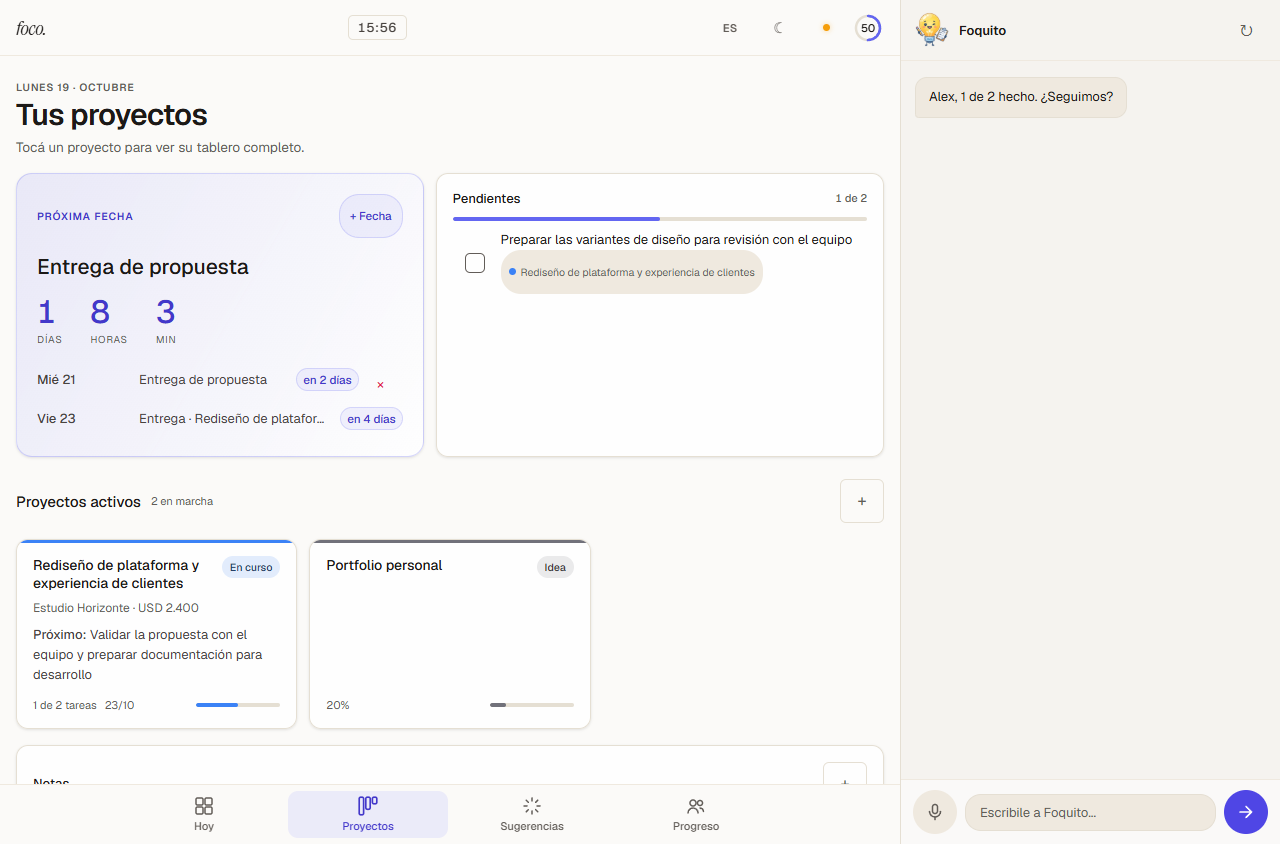
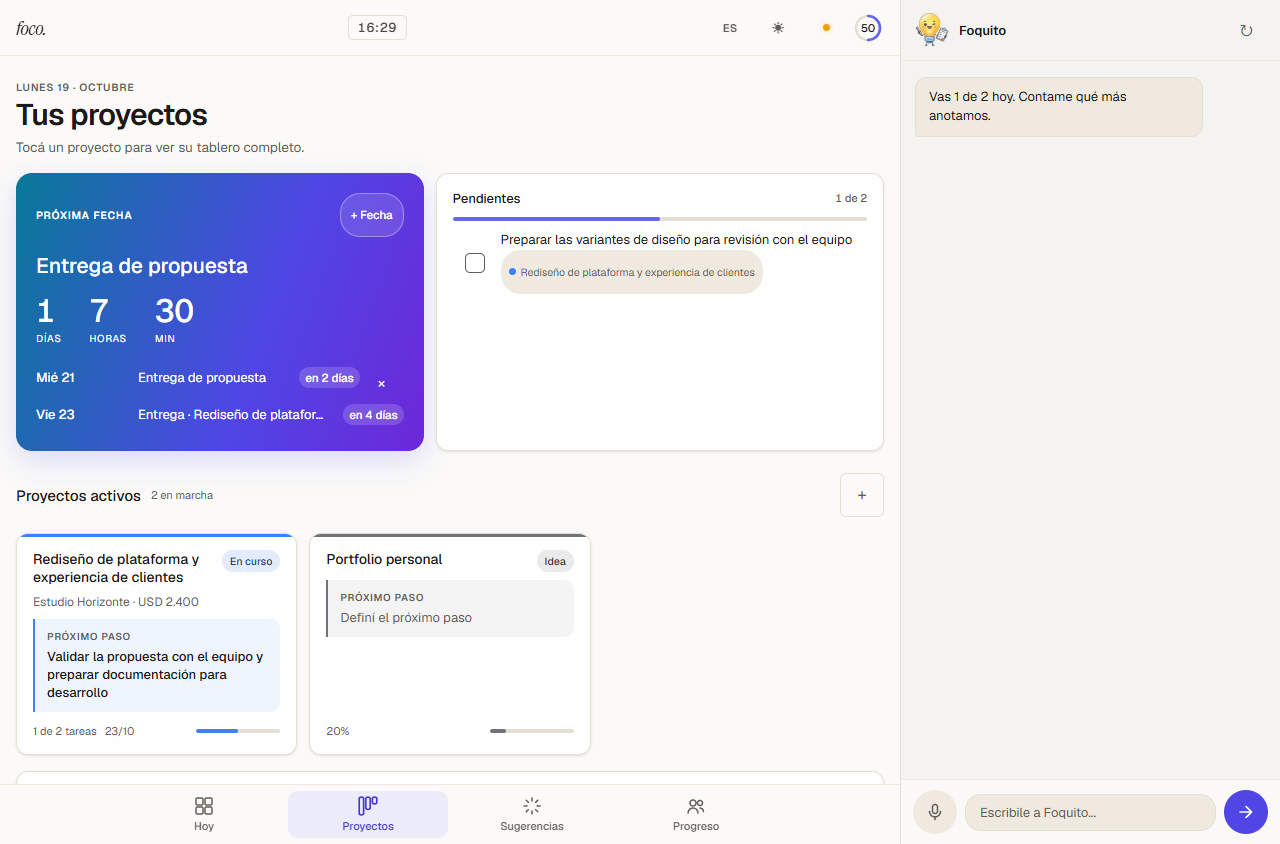
Destacar el próximo paso de cada proyecto en móvil

diff --git a/public/app.js b/public/app.js
@@ -151,7 +151,7 @@ const I18N_UI = {
     projColor: 'Color', projUnoPorLinea: 'uno por línea', projCronoAyuda: 'cuándo | qué | estado (pendiente, ahora, listo)',
     projClientePh: 'Para quién es', projViaPh: 'Directo, Qenti, Antic...', projMontoPh: 'USD 1.000 · 50/50', projPlazoPh: '6 semanas',
     projProximoPh: 'Lo siguiente que tiene que pasar',
-    phubTitle: 'Tus proyectos', phubLead: 'Tocá un proyecto para ver su tablero completo.',
+    phubTitle: 'Tus proyectos', phubLead: 'Tocá un proyecto para ver su tablero completo.', projDefineNext: 'Definí el próximo paso',
     phubProxima: 'Próxima fecha', phubFecha: 'Fecha', phubSinFechas: 'Sin fechas próximas', phubPendientes: 'Pendientes',
     phubSinPendientes: 'Nada pendiente', phubActivos: 'Proyectos activos', phubEnMarcha: 'en marcha', phubEntregados: 'Entregados',
     phubEntrega: 'Entrega', phubPaso: 'pasó', phubEn: 'en', phubManana: 'mañana', phubDias: 'días',
@@ -242,7 +242,7 @@ const I18N_UI = {
     projColor: 'Color', projUnoPorLinea: 'one per line', projCronoAyuda: 'when | what | status (pendiente, ahora, listo)',
     projClientePh: 'Who it is for', projViaPh: 'Direct, agency...', projMontoPh: 'USD 1,000 · 50/50', projPlazoPh: '6 weeks',
     projProximoPh: 'The next thing that has to happen',
-    phubTitle: 'Your projects', phubLead: 'Tap a project to see its full board.',
+    phubTitle: 'Your projects', phubLead: 'Tap a project to see its full board.', projDefineNext: 'Define the next step',
     phubProxima: 'Next date', phubFecha: 'Date', phubSinFechas: 'No upcoming dates', phubPendientes: 'To do',
     phubSinPendientes: 'Nothing pending', phubActivos: 'Active projects', phubEnMarcha: 'active', phubEntregados: 'Delivered',
     phubEntrega: 'Due', phubPaso: 'past', phubEn: 'in', phubManana: 'tomorrow', phubDias: 'days',
@@ -2006,6 +2006,8 @@ function renderProjAgenda() {
 function proyectoCardHTML(p) {
   const color = projColor(p);
   const av = projAvance(p);
+  const nextTask = projTareasAll.find(it => it.proyecto_id === p.id && !it.done);
+  const nextAction = p.proximo_paso || nextTask?.texto || '';
   const sub = [p.cliente, p.monto].filter(Boolean).map(escH).join(' · ') || (p.descripcion ? escH(p.descripcion) : '');
   let fechaStr = '';
   if (p.fecha_limite) {
@@ -2024,7 +2026,10 @@ function proyectoCardHTML(p) {
         ${projEstadoChip(p)}
       </div>
       ${sub ? `<div class="ptab-card-sub">${sub}</div>` : ''}
-      ${p.proximo_paso ? `<div class="ptab-card-next"><b>${t('projProximo')}:</b> ${escH(p.proximo_paso)}</div>` : ''}
+      <div class="ptab-card-next${nextAction ? '' : ' is-empty'}">
+        <span class="ptab-card-next-label">${t('projProximoPaso')}</span>
+        <span class="ptab-card-next-text">${escH(nextAction || t('projDefineNext'))}</span>
+      </div>
       <div class="ptab-card-foot">
         <span>${av.total ? `${av.hechas} ${t('projDe')} ${av.total} ${t('projTareasMin')}` : (av.pct ? av.pct + '%' : '')}</span>
         ${fechaStr}

diff --git a/public/style.css b/public/style.css
@@ -4865,6 +4865,14 @@ input:focus-visible, textarea:focus-visible, select:focus-visible {
 .ptab-card-name, .pdet-title, .pdet-next b, .phub-next-title, .pdet-fact b, .nota-text { overflow-wrap: anywhere; }
 .ptab-card-name { min-width: 0; }
 .ptab-card-next, .sug-desc, .tuana-empty { color: var(--text2); font-size: 13px; line-height: 1.55; }
+.ptab-card-next {
+  display: flex; flex-direction: column; gap: 3px; padding: 10px 12px;
+  background: color-mix(in srgb, var(--pc) 8%, var(--surface));
+  border-left: 2px solid var(--pc); border-radius: 0 var(--radius-control) var(--radius-control) 0;
+}
+.ptab-card-next-label { color: var(--text3); font-size: 10px; font-weight: 600; letter-spacing: .07em; text-transform: uppercase; }
+.ptab-card-next-text { color: var(--text); font-size: 13px; font-weight: 500; line-height: 1.4; overflow-wrap: anywhere; }
+.ptab-card-next.is-empty .ptab-card-next-text { color: var(--text3); font-weight: 400; }
 .ptab-card-foot { flex-wrap: wrap; }
 .ptab-chip { color: color-mix(in srgb, var(--chip) 35%, var(--text) 65%); }
 .phub-tag { max-width: 100%; white-space: normal; text-align: left; margin-left: 0; }
@@ -4900,6 +4908,14 @@ input:focus-visible, textarea:focus-visible, select:focus-visible {
   .phub-clock b { font-size: 28px; }
   .phub-ag { grid-template-columns: 60px minmax(0, 1fr) auto; gap: 6px; min-height: 44px; align-items: center; }
   .phub-ag-falta { grid-column: auto; justify-self: start; font-size: 11px; }
+  .phub-hero { display: contents; }
+  .phub-intro { order: 0; }
+  .phub-next { order: 1; }
+  .phub-sec-hd { order: 2; }
+  .ptab-grid { order: 3; }
+  .phub-pend-panel { order: 4; }
+  #phub-done { order: 5; }
+  .phub-notas { order: 6; }
   .phub-title, .pdet-title { font-size: 28px; line-height: 1.15; }
   .ptab-grid { grid-template-columns: minmax(0, 1fr); }
 }
